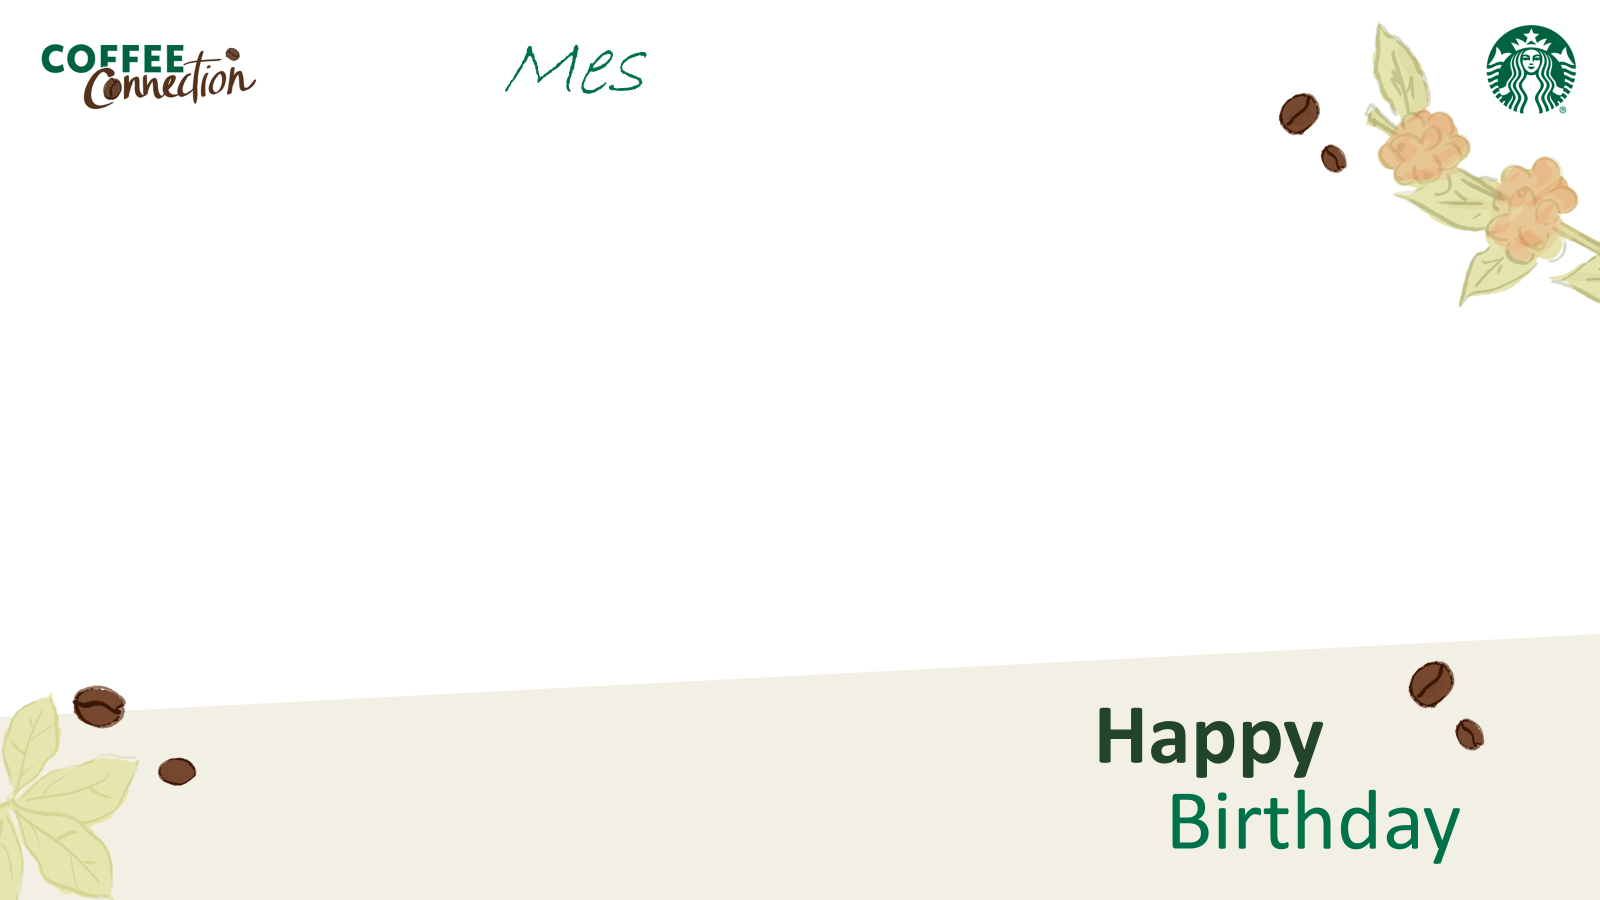
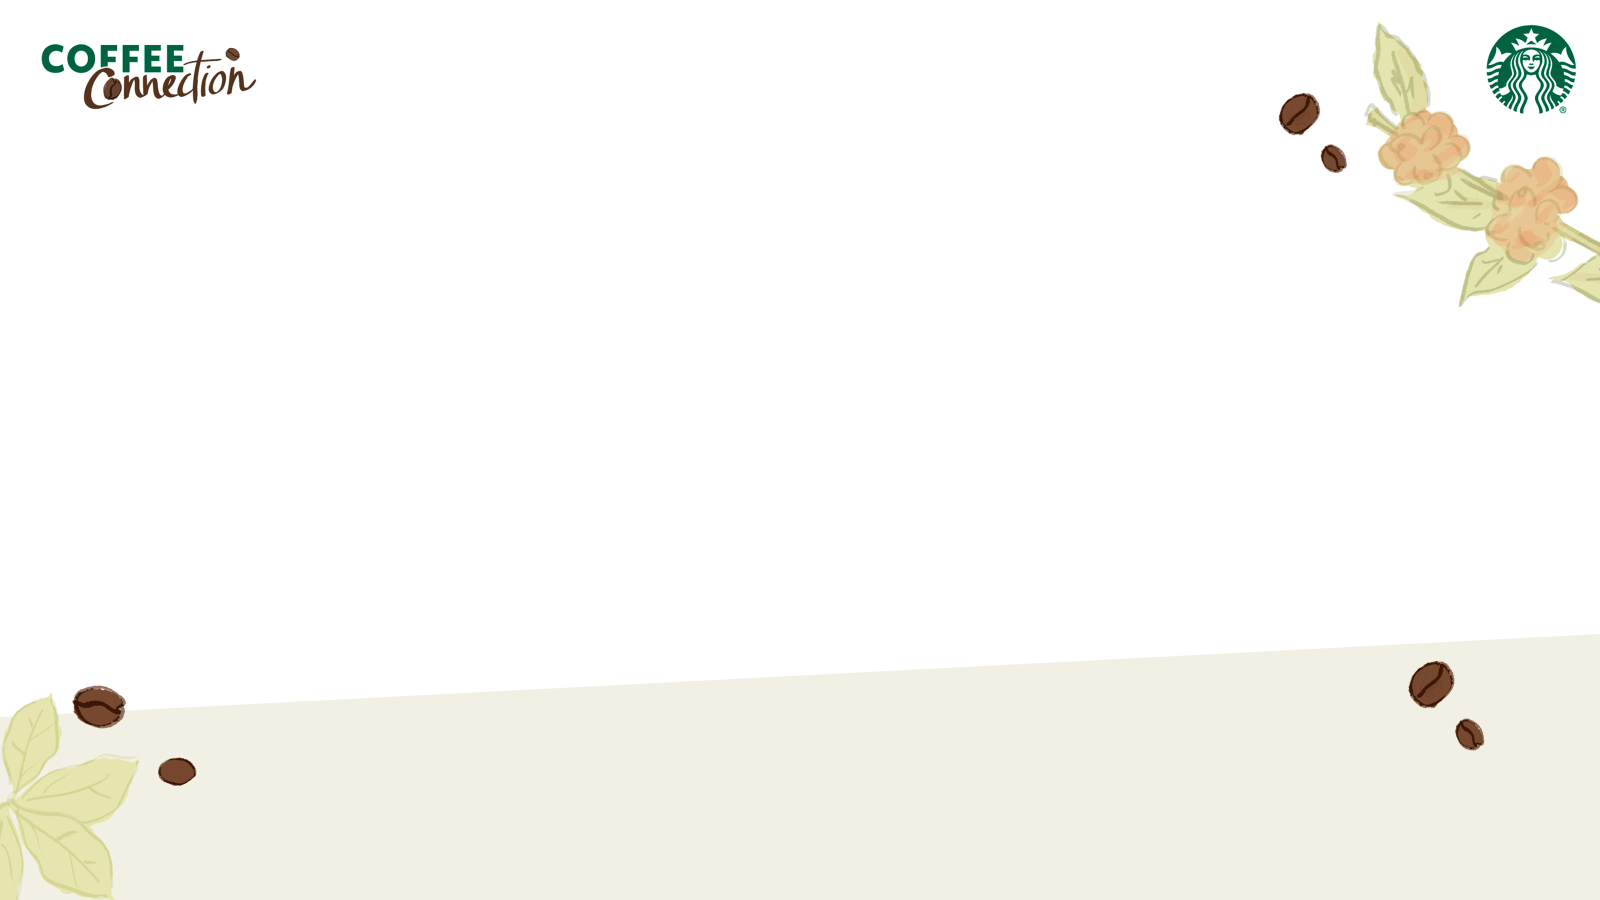
Add files via upload

Changed region(s): [[0.6875, 0.7778, 0.9062, 0.9644], [0.3125, 0.0622, 0.4062, 0.1244]]

diff --git a/app.js b/app.js
@@ -1,26 +1,38 @@
-const H=window.PARTNER_HEADERS, R=window.PARTNER_ROWS.map(r=>Object.fromEntries(H.map((h,i)=>[h,r[i]||''])));
+const H=window.PARTNER_HEADERS;
+const R=window.PARTNER_ROWS.map(r=>Object.fromEntries(H.map((h,i)=>[h,r[i]||'']))).filter(x=>x.nombre&&x.region&&(!x.status||x.status.toUpperCase().includes('ACTIVO')));
 const months=['Enero','Febrero','Marzo','Abril','Mayo','Junio','Julio','Agosto','Septiembre','Octubre','Noviembre','Diciembre'];
-const today=new Date();const currentMonth=today.getMonth()+1;
+const today=new Date();const currentMonth=today.getMonth()+1;const currentYear=today.getFullYear();
 const $=id=>document.getElementById(id), uniq=a=>[...new Set(a.filter(Boolean))].sort((a,b)=>a.localeCompare(b,'es'));
-const roleRank=p=>/gerente/i.test(p)&&!/sub/i.test(p)?1:/sub/i.test(p)?2:/super/i.test(p)?3:/bar/i.test(p)?4:9;
-const roleName=p=>/gerente/i.test(p)&&!/sub/i.test(p)?'Gerente':/sub/i.test(p)?'Subgerente':/super/i.test(p)?'Supervisor':/bar/i.test(p)?'Baristas':'Otros';
-const dateParts=s=>{let d=new Date((s||'')+'T00:00:00');return isNaN(d)?null:{d,day:d.getDate(),month:d.getMonth()+1,year:d.getFullYear()}};
+const roleOrder=['Gerente','Subgerente','Supervisor','Barista','Otros'];
+const roleRank=p=>roleOrder.indexOf(roleName(p))>=0?roleOrder.indexOf(roleName(p)):9;
+const roleName=p=>/sub/i.test(p)?'Subgerente':/super/i.test(p)?'Supervisor':/bar/i.test(p)?'Barista':/gerente/i.test(p)?'Gerente':'Otros';
+const dateParts=s=>{if(!s)return null;let d=new Date(s+'T00:00:00');return isNaN(d)?null:{d,day:d.getDate(),month:d.getMonth()+1,year:d.getFullYear()}};
 function fillSelect(el,items,all='Todas'){el.innerHTML=`<option value="">${all}</option>`+items.map(x=>`<option>${x}</option>`).join('')}
 function init(){document.querySelectorAll('.tab').forEach(b=>b.onclick=()=>{document.querySelectorAll('.tab,.panel').forEach(x=>x.classList.remove('active'));b.classList.add('active');$(b.dataset.tab).classList.add('active')});
   ['pRegion','aRegion','bRegion'].forEach(id=>fillSelect($(id),uniq(R.map(x=>x.region))));
   ['aMonth','bMonth'].forEach(id=>{$(id).innerHTML=months.map((m,i)=>`<option value="${i+1}" ${i+1==currentMonth?'selected':''}>${m}</option>`).join('')});
-  ['pRegion','pDM','pStore','aRegion','aDM','aMonth','aSearch','bRegion','bDM','bMonth','bSearch'].forEach(id=>$(id).addEventListener('input',renderAll)); renderAll();
-  if('serviceWorker'in navigator)navigator.serviceWorker.register('sw.js');}
-function filterBase(prefix){let region=$(prefix+'Region')?.value||'',dm=$(prefix+'DM')?.value||'',store=$(prefix+'Store')?.value||'';return R.filter(x=>(!region||x.region==region)&&(!dm||x.dm==dm)&&(!store||x.tienda==store))}
+  fillSelect($('pRole'),roleOrder.filter(x=>x!='Otros'),'Todas');
+  ['pRegion','pDM','pStore','pRole','pSearch','aRegion','aDM','aMonth','aSearch','bRegion','bDM','bMonth','bSearch'].forEach(id=>$(id).addEventListener('input',renderAll));
+  renderAll();if('serviceWorker'in navigator)navigator.serviceWorker.register('sw.js');}
 function cascade(prefix){let region=$(prefix+'Region').value, oldDM=$(prefix+'DM').value, oldStore=$(prefix+'Store')?$(prefix+'Store').value:'';let list=R.filter(x=>!region||x.region==region), dms=uniq(list.map(x=>x.dm));fillSelect($(prefix+'DM'),dms,'Todos');if(dms.includes(oldDM))$(prefix+'DM').value=oldDM;list=list.filter(x=>!$(prefix+'DM').value||x.dm==$(prefix+'DM').value);if($(prefix+'Store')){let stores=uniq(list.map(x=>x.tienda));fillSelect($(prefix+'Store'),stores,'Todas');if(stores.includes(oldStore))$(prefix+'Store').value=oldStore;}}
-function renderPartner(){cascade('p');let data=filterBase('p');if(!data.length)data=R.slice(0,0);let stores=uniq(data.map(x=>x.tienda)),dms=uniq(data.map(x=>x.dm));$('kPartners').textContent=data.length;$('kStores').textContent=stores.length;$('kDMs').textContent=dms.length;$('storeTitle').textContent=$('pStore').value||'Resumen Partner';$('storeMeta').textContent=[$('pRegion').value||'Todas las regiones',$('pDM').value||'Todos los DM'].join(' · ');
+function filterBase(prefix){let region=$(prefix+'Region')?.value||'',dm=$(prefix+'DM')?.value||'',store=$(prefix+'Store')?.value||'';return R.filter(x=>(!region||x.region==region)&&(!dm||x.dm==dm)&&(!store||x.tienda==store))}
+function roleCounts(data){return Object.fromEntries(roleOrder.map(r=>[r,data.filter(x=>roleName(x.puesto)==r).length]));}
+function barRows(counts){let max=Math.max(1,...Object.values(counts));return Object.entries(counts).filter(([k])=>k!='Otros'||counts[k]>0).map(([r,c])=>`<div class="barRow"><b>${r}</b><span>${c}</span><div><i style="width:${c/max*100}%"></i></div></div>`).join('')}
+function ageCounts(data){let labels=['De 18 a 20 años','De 21 a 29 años','De 30 a 39 años','De 40 a 49 años','De 50 a 59 años','Mas de 60 años'];let counts=Object.fromEntries(labels.map(l=>[l,0]));data.forEach(x=>{let r=(x.rango||'').replace(/\.$/,'');let key=labels.find(l=>r.toLowerCase().includes(l.toLowerCase().replace('más','mas')));if(key)counts[key]++;});return counts;}
+function renderPartner(){cascade('p');let data=filterBase('p');let role=$('pRole').value, search=($('pSearch').value||'').toLowerCase();data=data.filter(x=>(!role||roleName(x.puesto)==role)&&(!search||(x.nombre+' '+x.num).toLowerCase().includes(search)));
+  let stores=uniq(data.map(x=>x.tienda)),dms=uniq(data.map(x=>x.dm)),rc=roleCounts(data);$('kPartners').textContent=data.length;$('kStores').textContent=stores.length;$('kDMs').textContent=dms.length;$('kGerentes').textContent=rc.Gerente;$('kSup').textContent=rc.Supervisor;$('kBar').textContent=rc.Barista;
+  $('storeTitle').textContent=$('pStore').value||'Resumen Partner';$('storeMeta').textContent=[$('pRegion').value||'Todas las regiones',$('pDM').value||'Todos los DM',$('pRole').value||'Todas las posiciones'].join(' · ');
   let f=data.filter(x=>x.sexo=='F').length,m=data.filter(x=>x.sexo=='M').length,pct=data.length?Math.round(f/data.length*100):0;$('donut').style.setProperty('--pct',pct);$('donutPct').textContent=pct+'%';$('womenPct').textContent=pct+'% Mujeres';$('menPct').textContent=(data.length?Math.round(m/data.length*100):0)+'% Hombres';
-  const roles=['Gerente','Subgerente','Supervisor','Baristas'];let max=1;let counts={};roles.forEach(r=>counts[r]=data.filter(x=>roleName(x.puesto)==r).length);max=Math.max(1,...Object.values(counts));$('roleBars').innerHTML=roles.map(r=>`<div class="barRow"><b>${r}</b> <span>${counts[r]}</span><div><i style="width:${counts[r]/max*100}%"></i></div></div>`).join('');
-  let grouped={};data.sort((a,b)=>roleRank(a.puesto)-roleRank(b.puesto)||a.nombre.localeCompare(b.nombre,'es')).forEach(x=>(grouped[roleName(x.puesto)]??=[]).push(x));$('hierarchy').innerHTML=roles.map(r=>{let arr=grouped[r]||[];return `<article class="role"><h2>${r}<span class="badge">${arr.length}</span></h2>${arr.map(personCard).join('')||'<small>Sin partners</small>'}</article>`}).join('');}
-function personCard(x){return `<div class="person" onclick='showDetail(${JSON.stringify(x).replaceAll("'","&#39;")})'><div><b>${x.nombre}</b><small>${x.puesto} · ${x.tienda}</small></div><span class="badge">${x.turno}</span></div>`}
-function yearsSince(s){let p=dateParts(s);if(!p)return 0;let y=today.getFullYear()-p.year;if(today.getMonth()+1<p.month||(today.getMonth()+1==p.month&&today.getDate()<p.day))y--;return Math.max(0,y)}
+  $('roleBars').innerHTML=barRows(rc);$('ageBars').innerHTML=barRows(ageCounts(data));
+  let grouped={};data.sort((a,b)=>roleRank(a.puesto)-roleRank(b.puesto)||a.nombre.localeCompare(b.nombre,'es')).forEach(x=>(grouped[roleName(x.puesto)]??=[]).push(x));
+  $('hierarchy').innerHTML=roleOrder.filter(r=>r!='Otros'||(grouped[r]||[]).length).map(r=>{let arr=grouped[r]||[];return `<article class="role"><h2>${r=='Barista'?'Baristas':r}<span class="badge">${arr.length}</span></h2>${arr.map(personCard).join('')||'<small>Sin partners</small>'}</article>`}).join('');}
+function personCard(x){return `<div class="person" onclick='showDetail(${JSON.stringify(x).replaceAll("'","&#39;")})'><div><b>${x.nombre}</b><small>${x.num} · ${x.puesto} · ${x.tienda}</small></div><span class="badge">${x.turno}</span></div>`}
+function yearsAt(s){let p=dateParts(s);return p?Math.max(0,currentYear-p.year):0}
+function ageAt(s){let p=dateParts(s);return p?Math.max(0,currentYear-p.year):''}
 function renderCeleb(type){let pre=type=='a'?'a':'b';cascade(pre);let month=+$(pre+'Month').value,search=($(pre+'Search').value||'').toLowerCase();let data=filterBase(pre).filter(x=>{let p=dateParts(type=='a'?x.ingreso:x.nac);return p&&p.month==month&&(!search||(x.nombre+' '+x.tienda).toLowerCase().includes(search))}).sort((x,y)=>dateParts(type=='a'?x.ingreso:x.nac).day-dateParts(type=='a'?y.ingreso:y.nac).day||x.nombre.localeCompare(y.nombre,'es'));
-  $(pre+'MonthTitle').textContent=months[month-1];$(pre+'Count').textContent=data.length+(type=='a'?' aniversarios':' cumpleaños');let html=data.slice(0,48).map(x=>{let p=dateParts(type=='a'?x.ingreso:x.nac), years=yearsSince(x.ingreso);return `<div class="celebration"><b>${String(p.day).padStart(2,'0')} · ${x.nombre}</b><small>${x.tienda} · ${x.dm}</small>${type=='a'?`<small>${years} años en la marca</small>`:''}</div>`}).join('')||'<div class="celebration"><b>Sin registros para este filtro</b><small>Ajusta Región, DM o Mes.</small></div>';$(pre+'List').innerHTML=html;}
+  $(pre+'MonthTitle').textContent=months[month-1];$(pre+'Count').textContent=data.length+(type=='a'?' aniversarios':' cumpleaños');
+  let html=data.slice(0,36).map(x=>{let p=dateParts(type=='a'?x.ingreso:x.nac);return `<div class="celebration"><b>${String(p.day).padStart(2,'0')} · ${x.nombre}</b><small>${x.tienda}</small>${type=='a'?`<small>${yearsAt(x.ingreso)} años en la marca</small>`:`<small>${ageAt(x.nac)} años</small>`}</div>`}).join('')||'<div class="celebration empty"><b>Sin registros para este filtro</b><small>Ajusta Región, DM o Mes.</small></div>';
+  $(pre+'List').innerHTML=html;}
 function renderAll(){renderPartner();renderCeleb('a');renderCeleb('b')}
-function showDetail(x){$('detailBody').innerHTML=`<h2>${x.nombre}</h2><p><b># Empleado:</b> ${x.num}</p><p><b>Puesto:</b> ${x.puesto}</p><p><b>Tienda:</b> ${x.tienda}</p><p><b>DM:</b> ${x.dm}</p><p><b>Región:</b> ${x.region}</p><p><b>Jornada:</b> ${x.turno}</p><p><b>Ingreso:</b> ${x.ingreso} · ${yearsSince(x.ingreso)} años</p>`;$('detail').showModal()}
+function showDetail(x){$('detailBody').innerHTML=`<h2>${x.nombre}</h2><p><b># Empleado:</b> ${x.num}</p><p><b>Puesto:</b> ${x.puesto}</p><p><b>Tienda:</b> ${x.tienda}</p><p><b>Centro de costos:</b> ${x.cc}</p><p><b>DM:</b> ${x.dm}</p><p><b>Región:</b> ${x.region}</p><p><b>Jornada:</b> ${x.turno}</p><p><b>Sexo:</b> ${x.sexo=='F'?'Femenino':x.sexo=='M'?'Masculino':x.sexo}</p><p><b>Edad:</b> ${x.edad||ageAt(x.nac)} años · ${x.rango||''}</p><p><b>Ingreso:</b> ${x.ingreso} · ${yearsAt(x.ingreso)} años en la marca</p>`;$('detail').showModal()}
 init();

diff --git a/index.html b/index.html
@@ -3,18 +3,18 @@
 <main class="wrap">
 <nav class="tabs"><button class="tab active" data-tab="partner">Partner</button><button class="tab" data-tab="anniv">Aniversarios</button><button class="tab" data-tab="birth">Cumpleaños</button></nav>
 <section id="partner" class="panel active">
-  <div class="filters three"><label>Región<select id="pRegion"></select></label><label>DM<select id="pDM"></select></label><label>Tienda<select id="pStore"></select></label></div>
-  <div class="grid"><aside class="card summary"><h2 id="storeTitle">Resumen Partner</h2><p id="storeMeta"></p><div class="kpis"><div><b id="kPartners">0</b><span>Partners</span></div><div><b id="kStores">0</b><span>Tiendas</span></div><div><b id="kDMs">0</b><span>DM</span></div></div><div class="donut" id="donut"><span id="donutPct">0%</span></div><div class="legend"><b id="womenPct">0% Mujeres</b><b id="menPct">0% Hombres</b></div><h3>Por posición</h3><div id="roleBars"></div></aside><section id="hierarchy" class="list"></section></div>
+  <div class="filters five"><label>Región<select id="pRegion"></select></label><label>DM<select id="pDM"></select></label><label>Tienda<select id="pStore"></select></label><label>Posición<select id="pRole"></select></label><label>Buscar<input id="pSearch" placeholder="Partner o # empleado"></label></div>
+  <div class="grid"><aside class="card summary"><h2 id="storeTitle">Resumen Partner</h2><p id="storeMeta"></p><div class="kpis"><div><b id="kPartners">0</b><span>Partners</span></div><div><b id="kStores">0</b><span>Tiendas</span></div><div><b id="kDMs">0</b><span>DM</span></div><div><b id="kGerentes">0</b><span>Gerentes</span></div><div><b id="kSup">0</b><span>Supervisores</span></div><div><b id="kBar">0</b><span>Baristas</span></div></div><div class="donut" id="donut"><span id="donutPct">0%</span></div><div class="legend"><b id="womenPct">0% Mujeres</b><b id="menPct">0% Hombres</b></div><h3>Por posición</h3><div id="roleBars"></div><h3>Rango de edad</h3><div id="ageBars"></div></aside><section id="hierarchy" class="list"></section></div>
 </section>
 <section id="anniv" class="panel">
   <div class="filters four"><label>Región<select id="aRegion"></select></label><label>DM<select id="aDM"></select></label><label>Mes<select id="aMonth"></select></label><label>Buscar<input id="aSearch" placeholder="Partner o tienda"></label></div>
   <div class="toolbar"><strong id="aCount">0 aniversarios</strong><button onclick="window.print()">Exportar / Imprimir</button></div>
-  <div class="slide anniv"><div><h2>Happy<br>Anniversary</h2><h3 id="aMonthTitle">Mes</h3></div><div id="aList" class="celebrationList"></div></div>
+  <div class="slide anniv"><h3 id="aMonthTitle"></h3><div id="aList" class="celebrationList anniversaryList"></div><div class="slideTitle anniversaryTitle">Happy<br>Anniversary</div></div>
 </section>
 <section id="birth" class="panel">
   <div class="filters four"><label>Región<select id="bRegion"></select></label><label>DM<select id="bDM"></select></label><label>Mes<select id="bMonth"></select></label><label>Buscar<input id="bSearch" placeholder="Partner o tienda"></label></div>
   <div class="toolbar"><strong id="bCount">0 cumpleaños</strong><button onclick="window.print()">Exportar / Imprimir</button></div>
-  <div class="slide birth"><div><h2>Happy<br>Birthday</h2><h3 id="bMonthTitle">Mes</h3></div><div id="bList" class="celebrationList"></div></div>
+  <div class="slide birth"><h3 id="bMonthTitle"></h3><div id="bList" class="celebrationList birthdayList"></div><div class="slideTitle birthdayTitle">Happy<br>Birthday</div></div>
 </section>
 </main>
 <dialog id="detail"><button class="close" onclick="detail.close()">×</button><div id="detailBody"></div></dialog>

diff --git a/sw.js b/sw.js
@@ -1,1 +1,5 @@
-const CACHE='partner-hub-v3';const ASSETS=['./','index.html','styles.css','app.js','manifest.webmanifest','data/partners.js','assets/partner-hub-logo.png','assets/icon-192.png','assets/icon-512.png','assets/birthday-template.png','assets/anniversary-template.png'];self.addEventListener('install',e=>e.waitUntil(caches.open(CACHE).then(c=>c.addAll(ASSETS)).then(()=>self.skipWaiting())));self.addEventListener('activate',e=>e.waitUntil(caches.keys().then(keys=>Promise.all(keys.filter(k=>k!==CACHE).map(k=>caches.delete(k)))).then(()=>self.clients.claim())));self.addEventListener('fetch',e=>e.respondWith(caches.match(e.request).then(r=>r||fetch(e.request))));
+const CACHE='partner-hub-v4';
+const ASSETS=['./','index.html','styles.css','app.js','manifest.webmanifest','data/partners.js','assets/partner-hub-logo.png','assets/icon-192.png','assets/icon-512.png','assets/birthday-template.png','assets/anniversary-template.png'];
+self.addEventListener('install',e=>{e.waitUntil(caches.open(CACHE).then(c=>c.addAll(ASSETS)).then(()=>self.skipWaiting()))});
+self.addEventListener('activate',e=>{e.waitUntil(caches.keys().then(keys=>Promise.all(keys.filter(k=>k!==CACHE).map(k=>caches.delete(k)))).then(()=>self.clients.claim()))});
+self.addEventListener('fetch',e=>{e.respondWith(caches.match(e.request).then(r=>r||fetch(e.request)))})

diff --git a/styles.css b/styles.css
@@ -1,1 +1,1 @@
-:root{--g:#006241;--g2:#0b6b46;--bg:#f3f8f5;--soft:#eaf4ef;--line:#d4e6dd;--txt:#0c2d21}*{box-sizing:border-box}body{margin:0;background:var(--bg);font-family:Inter,system-ui,Segoe UI,Arial,sans-serif;color:var(--txt)}.wrap,.hero{max-width:1180px;margin:auto}.hero{display:flex;gap:20px;align-items:center;background:white;margin-top:18px;border-radius:0 0 24px 24px;padding:26px 30px;box-shadow:0 1px 0 var(--line)}.hero img{width:92px}.hero h1{margin:0;color:var(--g);font-size:30px}.hero p{margin:4px 0 0;color:#536b60}.tabs{display:grid;grid-template-columns:repeat(3,1fr);gap:10px;margin:18px 14px}.tab{border:0;border-radius:18px;padding:14px;font-weight:800;color:var(--g);background:var(--soft);cursor:pointer}.tab.active{background:var(--g);color:white}.panel{display:none;padding:0 14px 28px}.panel.active{display:block}.filters{display:grid;gap:10px;margin:0 0 14px}.filters.three{grid-template-columns:repeat(3,1fr)}.filters.four{grid-template-columns:1fr 1fr 180px 1fr}label{font-size:13px;font-weight:800;color:#486358}select,input{width:100%;margin-top:6px;border:1px solid var(--line);border-radius:14px;background:white;padding:14px;font-weight:800}select:focus,input:focus{outline:2px solid var(--g)}.grid{display:grid;grid-template-columns:360px 1fr;gap:16px}.card,.role,.slide{background:white;border:1px solid var(--line);border-radius:22px;box-shadow:0 6px 20px #00624110}.summary{padding:18px;height:max-content;position:sticky;top:12px}.summary h2{margin:0 0 3px;color:var(--g)}.summary p{margin:0 0 12px;color:#667b72}.kpis{display:grid;grid-template-columns:repeat(3,1fr);gap:8px}.kpis div{background:var(--soft);border-radius:16px;padding:14px;text-align:center}.kpis b{display:block;font-size:26px;color:var(--g)}.kpis span{font-size:11px}.donut{--pct:50;width:140px;height:140px;border-radius:50%;margin:16px auto 10px;background:conic-gradient(var(--g) calc(var(--pct)*1%),#d8e9e0 0);display:grid;place-items:center}.donut:before{content:"";position:absolute;width:88px;height:88px;border-radius:50%;background:white}.donut span{position:relative;font-size:25px;font-weight:900;color:var(--g)}.legend{display:flex;justify-content:center;gap:18px}.barRow{margin:10px 0}.barRow div{height:10px;background:#d8e9e0;border-radius:99px;overflow:hidden}.barRow i{display:block;height:100%;background:var(--g);border-radius:99px}.list{display:grid;gap:14px}.role{padding:16px 18px}.role h2{display:flex;justify-content:space-between;margin:0 0 10px;color:var(--g);font-size:21px;border-bottom:1px solid var(--line);padding-bottom:10px}.badge{background:var(--soft);color:var(--g);border-radius:999px;padding:6px 10px;font-size:13px}.person{display:grid;grid-template-columns:1fr auto;gap:8px;align-items:center;padding:11px 0;border-bottom:1px solid #e4f0ea;cursor:pointer}.person:last-child{border-bottom:0}.person b{font-size:14px}.person small{display:block;color:#647870;margin-top:2px}.toolbar{display:flex;justify-content:space-between;align-items:center;margin:10px 0}.toolbar button{border:0;background:var(--g);color:white;border-radius:14px;padding:12px 16px;font-weight:900}.slide{position:relative;min-height:720px;overflow:hidden;padding:34px;background-size:cover;background-position:center}.slide.anniv{background-image:url(assets/anniversary-template.png)}.slide.birth{background-image:url(assets/birthday-template.png)}.slide h2{position:absolute;right:80px;bottom:42px;font-size:56px;line-height:1.05;color:#244c32;text-align:right;margin:0}.slide h3{position:absolute;top:26px;left:45%;font-size:42px;color:var(--g);font-family:cursive;margin:0}.celebrationList{display:grid;grid-template-columns:repeat(2,1fr);gap:10px;max-width:950px;margin:165px 60px 120px}.celebration{background:rgba(255,255,255,.92);border:1px solid var(--line);border-radius:16px;padding:11px 14px}.celebration b{color:var(--g)}.celebration small{display:block;color:#556d62}dialog{border:0;border-radius:22px;padding:22px;max-width:480px;width:92%;box-shadow:0 20px 70px #0004}.close{float:right;border:0;background:var(--soft);border-radius:50%;font-size:22px;width:36px;height:36px}@media(max-width:850px){.hero{margin-top:0;border-radius:0 0 20px 20px}.hero img{width:76px}.filters.three,.filters.four,.grid{grid-template-columns:1fr}.summary{position:static}.celebrationList{grid-template-columns:1fr;margin:120px 8px 120px}.slide{min-height:760px;padding:12px}.slide h2{font-size:38px;right:30px}.slide h3{left:42%;font-size:32px}}@media print{body{background:white}.hero,.tabs,.filters,.toolbar,.panel:not(.active){display:none!important}.panel{padding:0}.slide{box-shadow:none;border:0;border-radius:0;width:100%;height:100vh;page-break-after:always}.celebrationList{margin-top:130px}}
+:root{--g:#006241;--g2:#0b6b46;--bg:#f3f8f5;--soft:#eaf4ef;--line:#d4e6dd;--txt:#0c2d21}*{box-sizing:border-box}body{margin:0;background:var(--bg);font-family:Inter,system-ui,Segoe UI,Arial,sans-serif;color:var(--txt)}.wrap,.hero{max-width:1180px;margin:auto}.hero{display:flex;gap:20px;align-items:center;background:white;margin-top:18px;border-radius:0 0 24px 24px;padding:26px 30px;box-shadow:0 1px 0 var(--line)}.hero img{width:92px}.hero h1{margin:0;color:var(--g);font-size:30px}.hero p{margin:4px 0 0;color:#536b60}.tabs{display:grid;grid-template-columns:repeat(3,1fr);gap:10px;margin:18px 14px}.tab{border:0;border-radius:18px;padding:14px;font-weight:900;color:var(--g);background:var(--soft);cursor:pointer}.tab.active{background:var(--g);color:white}.panel{display:none;padding:0 14px 28px}.panel.active{display:block}.filters{display:grid;gap:10px;margin:0 0 14px}.filters.five{grid-template-columns:1fr 1fr 1fr 180px 1fr}.filters.four{grid-template-columns:1fr 1fr 180px 1fr}label{font-size:13px;font-weight:900;color:#486358}select,input{width:100%;margin-top:6px;border:1px solid var(--line);border-radius:14px;background:white;padding:14px;font-weight:900}select:focus,input:focus{outline:2px solid var(--g)}.grid{display:grid;grid-template-columns:380px 1fr;gap:16px}.card,.role,.slide{background:white;border:1px solid var(--line);border-radius:22px;box-shadow:0 6px 20px #00624110}.summary{padding:18px;height:max-content;position:sticky;top:12px}.summary h2{margin:0 0 3px;color:var(--g)}.summary p{margin:0 0 12px;color:#667b72}.summary h3{margin:18px 0 8px;color:var(--g)}.kpis{display:grid;grid-template-columns:repeat(3,1fr);gap:8px}.kpis div{background:var(--soft);border-radius:16px;padding:12px;text-align:center}.kpis b{display:block;font-size:23px;color:var(--g)}.kpis span{font-size:11px}.donut{--pct:50;width:140px;height:140px;border-radius:50%;margin:16px auto 10px;background:conic-gradient(var(--g) calc(var(--pct)*1%),#d8e9e0 0);display:grid;place-items:center;position:relative}.donut:before{content:"";position:absolute;width:88px;height:88px;border-radius:50%;background:white}.donut span{position:relative;font-size:25px;font-weight:900;color:var(--g)}.legend{display:flex;justify-content:center;gap:18px}.barRow{margin:10px 0;font-size:13px}.barRow b{display:inline-block;max-width:72%;overflow:hidden;text-overflow:ellipsis;white-space:nowrap}.barRow span{float:right;font-weight:900;color:var(--g)}.barRow div{clear:both;height:10px;background:#d8e9e0;border-radius:99px;overflow:hidden;margin-top:4px}.barRow i{display:block;height:100%;background:var(--g);border-radius:99px}.list{display:grid;gap:14px}.role{padding:16px 18px}.role h2{display:flex;justify-content:space-between;margin:0 0 10px;color:var(--g);font-size:21px;border-bottom:1px solid var(--line);padding-bottom:10px}.badge{background:var(--soft);color:var(--g);border-radius:999px;padding:6px 10px;font-size:13px}.person{display:grid;grid-template-columns:1fr auto;gap:8px;align-items:center;padding:11px 0;border-bottom:1px solid #e4f0ea;cursor:pointer}.person:last-child{border-bottom:0}.person b{font-size:14px}.person small{display:block;color:#647870;margin-top:2px}.toolbar{display:flex;justify-content:space-between;align-items:center;margin:10px 0}.toolbar button{border:0;background:var(--g);color:white;border-radius:14px;padding:12px 16px;font-weight:900}.slide{position:relative;overflow:hidden;padding:0;background-size:100% 100%;background-position:center;background-repeat:no-repeat;aspect-ratio:16/9;width:100%;min-height:auto}.slide.anniv{background-image:url(assets/anniversary-template.png)}.slide.birth{background-image:url(assets/birthday-template.png)}.slide h3{position:absolute;top:56px;left:50%;transform:translateX(-50%);font-size:46px;color:var(--g);font-family:cursive;margin:0;text-align:center;z-index:2}.slideTitle{position:absolute;right:90px;bottom:58px;font-size:58px;line-height:1.05;color:#244c32;text-align:right;margin:0;font-weight:900;z-index:2}.birthdayTitle{font-size:58px}.anniversaryTitle{font-size:52px}.celebrationList{position:absolute;left:8%;right:8%;top:190px;bottom:120px;display:grid;grid-template-columns:repeat(2,1fr);gap:10px;align-content:start;overflow:hidden}.celebration{background:rgba(255,255,255,.94);border:1px solid var(--line);border-radius:14px;padding:10px 14px;min-height:64px}.celebration b{display:block;color:var(--g);font-size:14px;line-height:1.15}.celebration small{display:block;color:#556d62;font-size:11px;margin-top:2px}.empty{grid-column:1/-1}dialog{border:0;border-radius:22px;padding:22px;max-width:480px;width:92%;box-shadow:0 20px 70px #0004}.close{float:right;border:0;background:var(--soft);border-radius:50%;font-size:22px;width:36px;height:36px}@media(max-width:850px){.hero{margin-top:0;border-radius:0 0 20px 20px}.hero img{width:76px}.filters.five,.filters.four,.grid{grid-template-columns:1fr}.summary{position:static}.slide{min-width:900px}.panel{overflow-x:auto}.celebrationList{top:160px}.slide h3{top:42px;font-size:36px}.slideTitle{font-size:44px;right:52px;bottom:40px}.anniversaryTitle{font-size:38px}}@page{size:landscape;margin:0}@media print{body{background:white}.hero,.tabs,.filters,.toolbar,.panel:not(.active){display:none!important}.wrap{max-width:none}.panel{padding:0}.slide{box-shadow:none;border:0;border-radius:0;width:100vw;height:100vh;aspect-ratio:auto;page-break-after:always}.celebrationList{top:21vh;bottom:16vh}.slide h3{top:6vh}.slideTitle{right:7vw;bottom:6vh}}

diff --git a/README.md b/README.md
@@ -2,11 +2,11 @@
 
 PWA lista para GitHub Pages.
 
-## Incluye
-- Partner: dashboard por Región, DM y Tienda con jerarquía y detalle de partner.
-- Aniversarios: filtros Región, DM y Mes; calcula años con F_INGRESO.
-- Cumpleaños: filtros Región, DM y Mes; muestra día del mes sin edad.
-- Exportación mediante imprimir/guardar PDF usando plantilla visual.
+Incluye:
+- Partner: filtros por Región, DM, Tienda, Posición y búsqueda.
+- Dashboard: partners, tiendas, DM, posiciones, % mujeres/hombres y rango de edad.
+- Aniversarios: Región, DM, Mes y búsqueda. Calcula años en la marca con F_INGRESO.
+- Cumpleaños: Región, DM, Mes y búsqueda. Muestra día y edad con F.NAC.
+- Exportación / impresión horizontal para celebraciones.
 
-## Publicación
-Sube el contenido de esta carpeta a GitHub Pages y activa Pages desde Settings > Pages > main / root.
+Los datos activos se toman de: NUM_EMP, NOMBRE, F_INGRESO, NOM_CCOSTO, TURNO, NOM_PUESTO, SEXO, F.NAC, cc, DM y REGION.